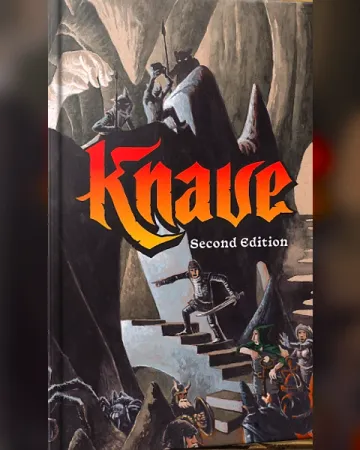
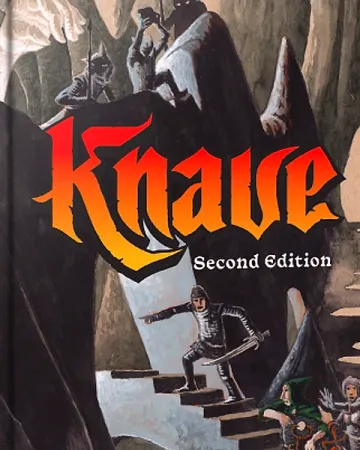
Knave 2e picture: the cover fills the tile's full width, proportions kept

diff --git a/docs/art-credits.md b/docs/art-credits.md
@@ -28,4 +28,4 @@ Vampire: The Masquerade Revised Edition is now Open Library's 349 x 475 scan (co
 
 Dungeons & Dragons 5.5e 2024 is the 2024 Player's Handbook cover, a 2732 x 3579 image the owner supplied (Wizards of the Coast's art), instead of the 2014 cover StartPlaying shows. The 2014 entry keeps StartPlaying's picture.
 
-Knave 2e is the front cover of the hardback, cut from the publisher's Kickstarter product photo and shown whole (a portrait book) over a darkened, blurred copy of itself at the sides. Knave 1e has no cover scan in reach: its tile shows the gold title mark from the publisher's page on black. Replace `public/images/systems/knave-1e.webp` (then `npm run tiles`) when a real cover is at hand.
+Knave 2e is the front cover of the hardback, cut from the publisher's Kickstarter product photo and scaled to the tile's full width without stretching (so the top spires and the bottom of the book fall outside the 4:5 tile). Knave 1e has no cover scan in reach: its tile shows the gold title mark from the publisher's page on black. Replace `public/images/systems/knave-1e.webp` (then `npm run tiles`) when a real cover is at hand.
